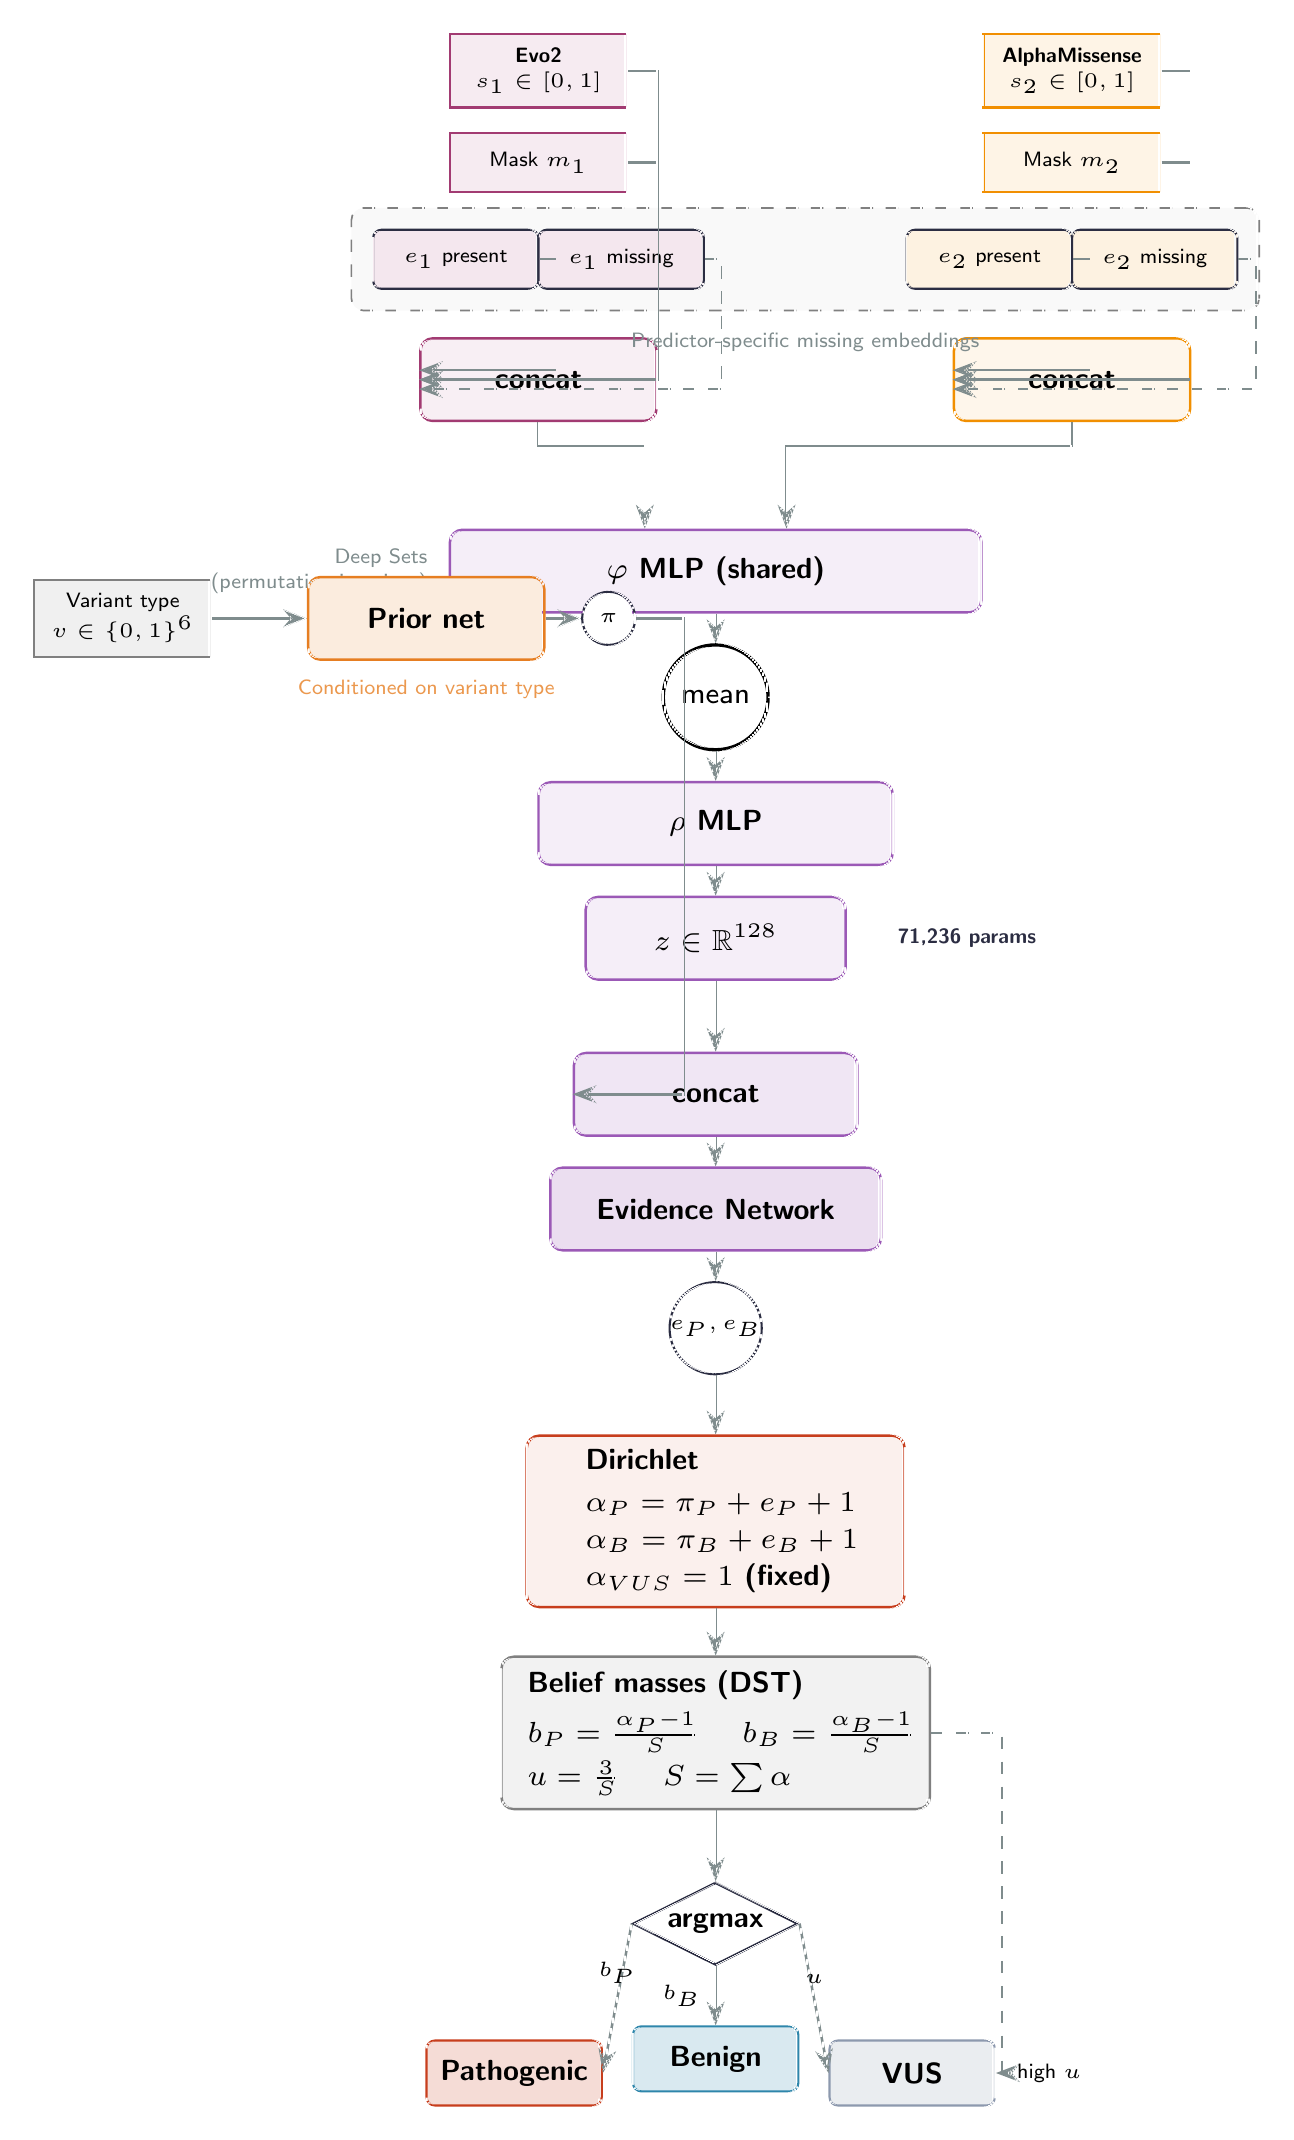
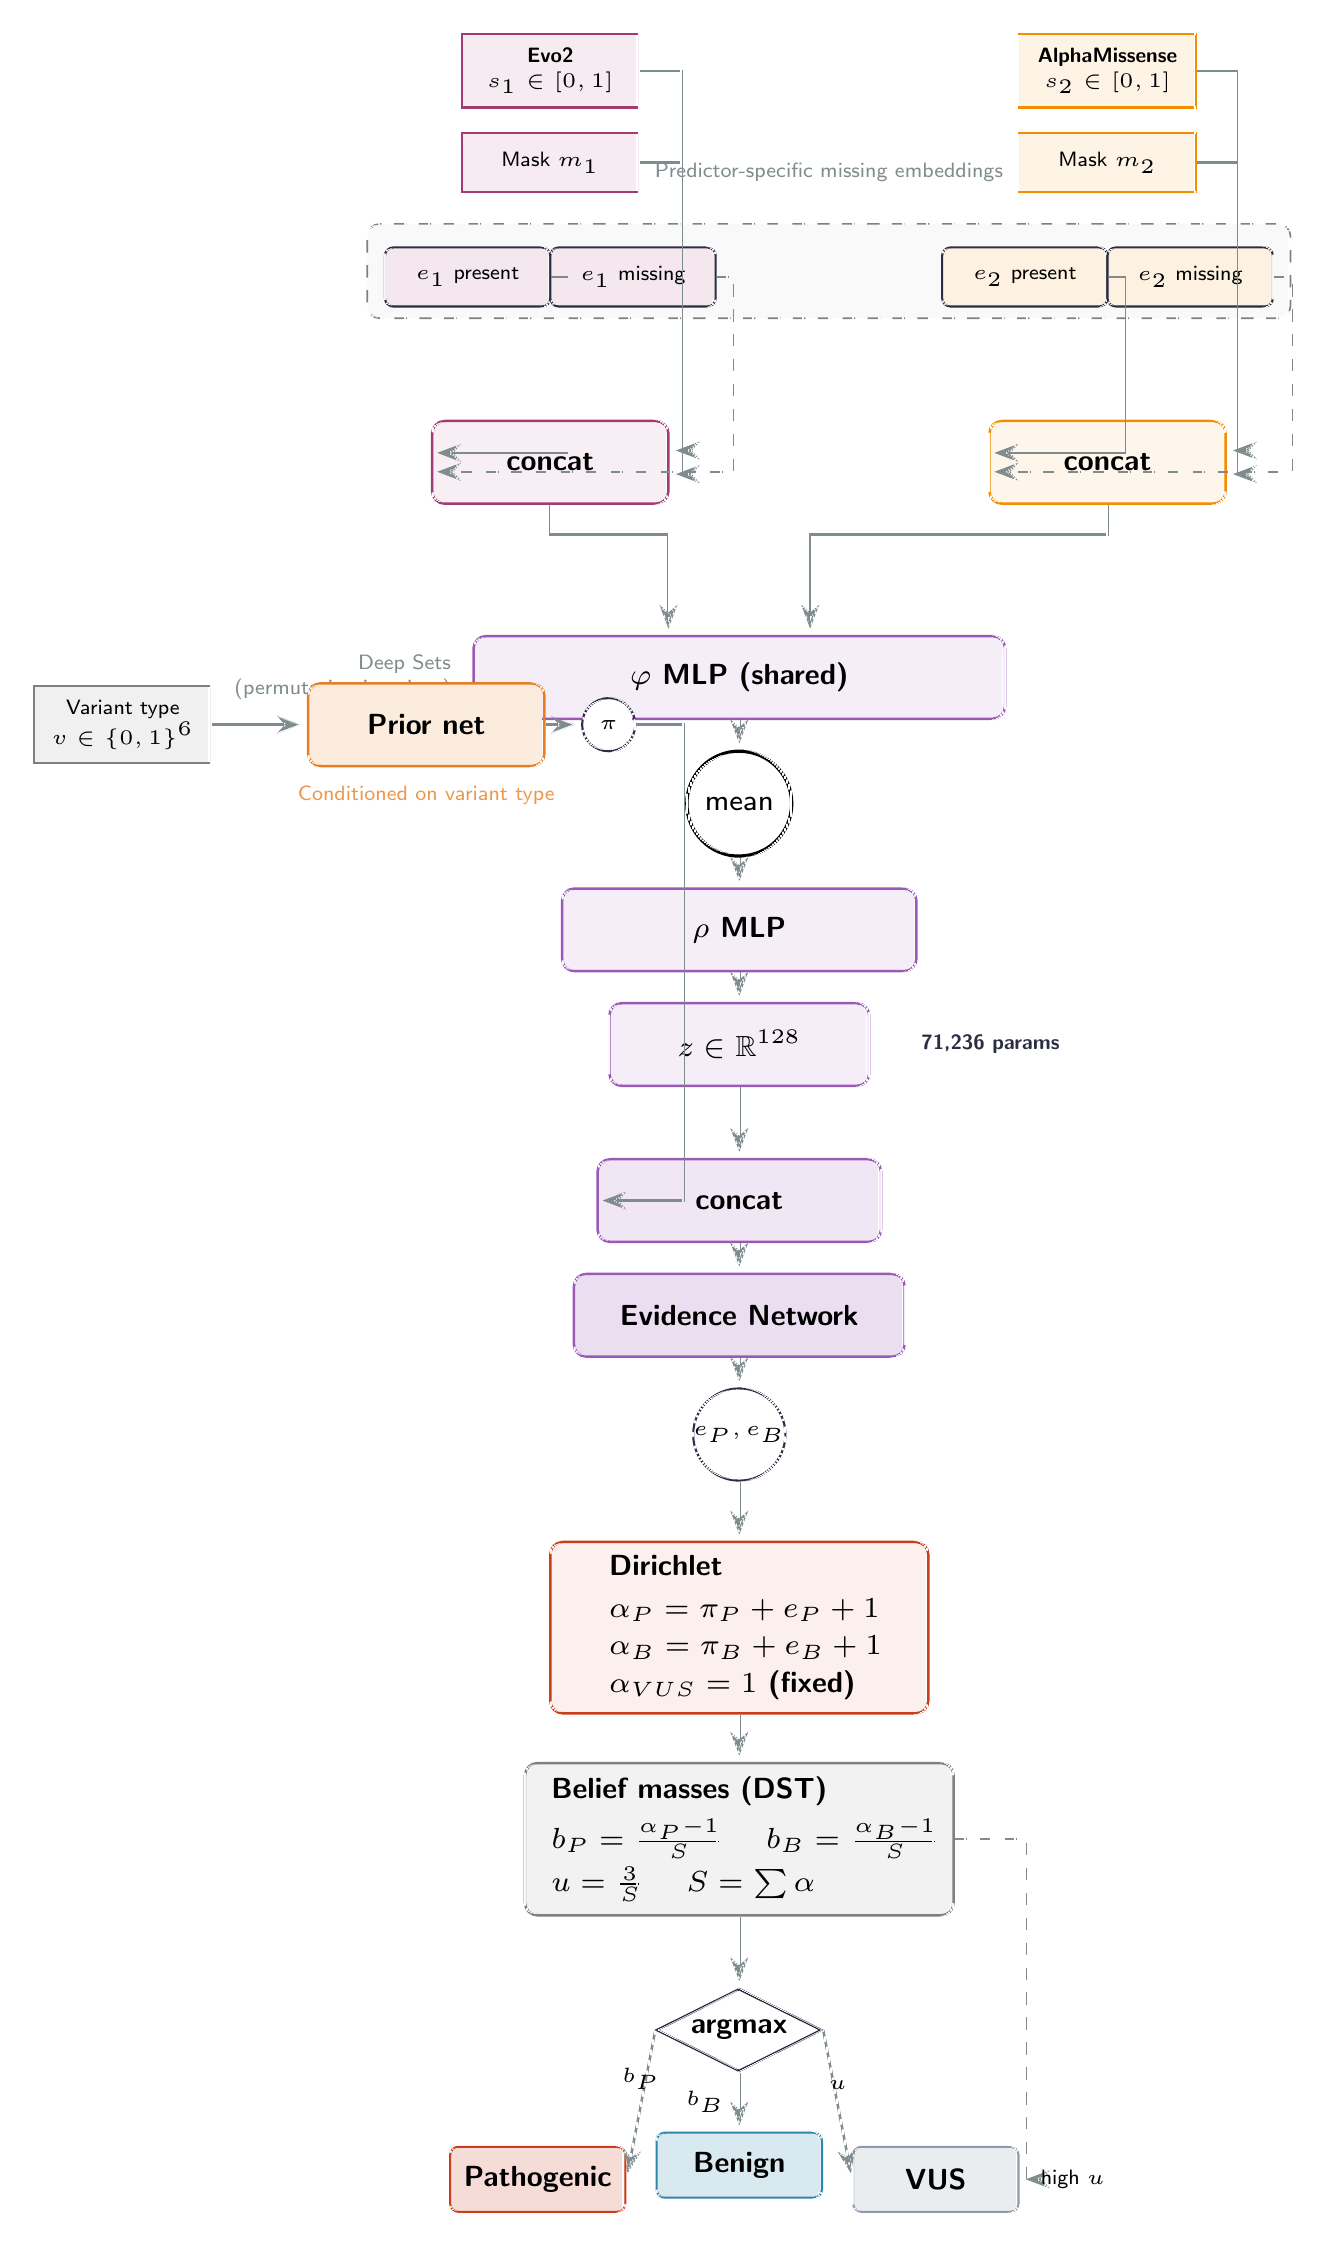
feat(figures): update CEFN v2 architecture diagrams and paper figures
- Refine CEFN_v2_architecture_final.tex layout and labels

- Regenerate figure1_architecture and figure1_architecture_final PNGs

- Update figure6_dca with corrected DCA visualization

- Adjust paper_figures.py for updated figure generation pipeline

diff --git a/backend/phase1_implementation/cefn_v2_outputs/figures/CEFN_v2_architecture_final.tex b/backend/phase1_implementation/cefn_v2_outputs/figures/CEFN_v2_architecture_final.tex
@@ -31,8 +31,8 @@
                      align=center, font=\sffamily\scriptsize\bfseries, inner sep=0pt, line width=0.6pt},
     output/.style={rectangle, draw=dark, fill=#1!18, minimum width=1.4cm, minimum height=0.55cm,
                    align=center, font=\sffamily\scriptsize\bfseries, rounded corners=2pt, line width=0.5pt},
-    arrow/.style={->, line width=0.6pt, draw=arrowgray},
-    dasharrow/.style={->, line width=0.6pt, draw=arrowgray, dashed},
+    arrow/.style={->, line width=0.6pt, draw=arrowgray, shorten >=1.5pt},
+    dasharrow/.style={->, line width=0.6pt, draw=arrowgray, dashed, shorten >=1.5pt},
     annot/.style={font=\sffamily\tiny, text=arrowgray}
 ]
 
@@ -44,49 +44,53 @@
 \node[input, fill=evo2mag!10, draw=evo2mag, below=0.2cm of evo2s] (evo2m) 
     {Mask $m_1$};
 
-\node[embed=evo2mag, below=0.3cm of evo2m, xshift=-0.7cm] (evo2e) 
+\node[embed=evo2mag, below=0.45cm of evo2m, xshift=-0.7cm] (evo2e) 
     {$e_1$ present};
-\node[embed=evo2mag, below=0.3cm of evo2m, xshift=+0.7cm] (evo2miss) 
+\node[embed=evo2mag, below=0.45cm of evo2m, xshift=+0.7cm] (evo2miss) 
     {$e_1$ missing};
 
-\node[network, fill=evo2mag!8, draw=evo2mag, below=0.4cm of evo2e, xshift=0.7cm, minimum width=2.0cm] (evo2cat) 
+\node[network, fill=evo2mag!8, draw=evo2mag, below=0.95cm of evo2e, xshift=0.7cm, minimum width=2.0cm] (evo2cat) 
     {concat};
 
-\draw[arrow] (evo2s.east) -- ++(0.25,0) |- (evo2cat.west);
-\draw[arrow] (evo2m.east) -- ++(0.25,0) |- (evo2cat.west);
+\coordinate (e2in1) at ([yshift=0.10cm, xshift=0.15cm]evo2cat.east);
+\coordinate (e2in2) at ([yshift=-0.10cm, xshift=0.15cm]evo2cat.east);
+\draw[arrow] (evo2s.east) -- ++(0.35,0) |- (e2in1) -- ([yshift=0.10cm]evo2cat.east);
+\draw[arrow] (evo2m.east) -- ++(0.35,0) |- (e2in2) -- ([yshift=-0.10cm]evo2cat.east);
 \draw[arrow] (evo2e.east) -- ++(0.15,0) |- ([yshift=0.08cm]evo2cat.west);
 \draw[dasharrow] (evo2miss.east) -- ++(0.15,0) |- ([yshift=-0.08cm]evo2cat.west);
 
 % --- AM branch (right) ---
-\node[input, fill=amorange!10, draw=amorange, right=3.0cm of evo2s] (ams) 
+\node[input, fill=amorange!10, draw=amorange, right=3.2cm of evo2s] (ams) 
     {\textbf{AlphaMissense}\\$s_2 \in [0,1]$};
 \node[input, fill=amorange!10, draw=amorange, below=0.2cm of ams] (amm) 
     {Mask $m_2$};
 
-\node[embed=amorange, below=0.3cm of amm, xshift=-0.7cm] (ame) 
+\node[embed=amorange, below=0.45cm of amm, xshift=-0.7cm] (ame) 
     {$e_2$ present};
-\node[embed=amorange, below=0.3cm of amm, xshift=+0.7cm] (ammiss) 
+\node[embed=amorange, below=0.45cm of amm, xshift=+0.7cm] (ammiss) 
     {$e_2$ missing};
 
-\node[network, fill=amorange!8, draw=amorange, below=0.4cm of ame, xshift=0.7cm, minimum width=2.0cm] (amcat) 
+\node[network, fill=amorange!8, draw=amorange, below=0.95cm of ame, xshift=0.7cm, minimum width=2.0cm] (amcat) 
     {concat};
 
-\draw[arrow] (ams.east) -- ++(0.25,0) |- (amcat.west);
-\draw[arrow] (amm.east) -- ++(0.25,0) |- (amcat.west);
+\coordinate (amin1) at ([yshift=0.10cm, xshift=0.15cm]amcat.east);
+\coordinate (amin2) at ([yshift=-0.10cm, xshift=0.15cm]amcat.east);
+\draw[arrow] (ams.east) -- ++(0.35,0) |- (amin1) -- ([yshift=0.10cm]amcat.east);
+\draw[arrow] (amm.east) -- ++(0.35,0) |- (amin2) -- ([yshift=-0.10cm]amcat.east);
 \draw[arrow] (ame.east) -- ++(0.15,0) |- ([yshift=0.08cm]amcat.west);
 \draw[dasharrow] (ammiss.east) -- ++(0.15,0) |- ([yshift=-0.08cm]amcat.west);
 
-% Background box
+% Background box around embedding layer only, label above
 \scoped[on background layer]{
-    \node[fit=(evo2e)(ammiss), draw=gray, dashed, fill=gray!5,
-          inner sep=5pt, rounded corners=3pt] (embed_region) {};
+    \node[fit=(evo2e)(evo2miss)(ame)(ammiss), draw=gray, dashed, fill=gray!5,
+          inner sep=4pt, rounded corners=3pt, yshift=0.05cm] (embed_region) {};
 }
-\node[annot, below=0.05cm of embed_region.south] {Predictor‑specific missing embeddings};
+\node[annot, above=0.22cm of embed_region.north, anchor=south] {Predictor‑specific missing embeddings};
 
 % ==================================================================
 % ROW 2: DEEP SETS (centered below)
 % ==================================================================
-\node[network, fill=evidencepurple!10, draw=evidencepurple, below=0.9cm of evo2cat, xshift=1.5cm, minimum width=4.5cm] (deepset_phi) 
+\node[network, fill=evidencepurple!10, draw=evidencepurple, below=1.1cm of evo2cat, xshift=1.6cm, minimum width=4.5cm] (deepset_phi) 
     {$\varphi$ MLP (shared)};
 
 \node[draw, circle, fill=white, minimum size=0.55cm, below=0.25cm of deepset_phi] (meanpool) {mean};
@@ -95,8 +99,8 @@
 \node[network, fill=evidencepurple!10, draw=evidencepurple, below=0.25cm of deepset_rho, minimum width=2.2cm] (deepset_out) 
     {$z \in \mathbb{R}^{128}$};
 
-\draw[arrow] (evo2cat.south) -- ++(0,-0.2) -| ([xshift=-0.6cm]deepset_phi.north);
-\draw[arrow] (amcat.south) -- ++(0,-0.2) -| ([xshift=0.6cm]deepset_phi.north);
+\draw[arrow] (evo2cat.south) -- ++(0,-0.25) -| ([xshift=-0.6cm]deepset_phi.north);
+\draw[arrow] (amcat.south) -- ++(0,-0.25) -| ([xshift=0.6cm]deepset_phi.north);
 \draw[arrow] (deepset_phi.south) -- (meanpool.north);
 \draw[arrow] (meanpool.south) -- (deepset_rho.north);
 \draw[arrow] (deepset_rho.south) -- (deepset_out.north);
@@ -107,7 +111,7 @@
 % ==================================================================
 % ROW 3: PRIOR + EVIDENCE (side by side)
 % ==================================================================
-\node[input, fill=gray!12, draw=gray, left=2.0cm of deepset_phi.west, yshift=-0.4cm] (vartype) 
+\node[input, fill=gray!12, draw=gray, left=2.2cm of deepset_phi.west, yshift=-0.4cm] (vartype) 
     {Variant type\\$v \in \{0,1\}^6$};
 \node[network, fill=priororange!15, draw=priororange, right=0.8cm of vartype] (priornet) 
     {Prior net};

diff --git a/backend/phase1_implementation/paper_figures.py b/backend/phase1_implementation/paper_figures.py
@@ -570,11 +570,12 @@ def figure_6_dca(model, test_df):
     ax.plot(thresholds, nb_all, label='Treat all', color=COLORS["gray"], lw=1, linestyle=':')
     ax.plot(thresholds, nb_none, label='Treat none', color=COLORS["dark"], lw=1, linestyle='-.')
 
-    # Clinical threshold markers
+    # Clinical threshold markers (horizontal labels for readability)
     for pt, label in [(0.05, 'Screening'), (0.20, 'Diagnostic'), (0.50, 'Treatment')]:
         ax.axvline(x=pt, color=COLORS["gray"], linestyle='--', lw=0.5, alpha=0.4)
-        ax.text(pt + 0.01, 0.40, label, rotation=90, fontsize=7,
-                color=COLORS["gray"], ha='left', va='top')
+        ax.text(pt + 0.015, 0.45, label, rotation=0, fontsize=7,
+                color=COLORS["gray"], ha='left', va='top',
+                bbox=dict(boxstyle='round,pad=0.2', facecolor='white', edgecolor='none', alpha=0.7))
 
     # Shade where CEFN > Evo2
     ax.fill_between(thresholds, nb_evo2, nb_cefn, where=np.array(nb_cefn) > np.array(nb_evo2),
